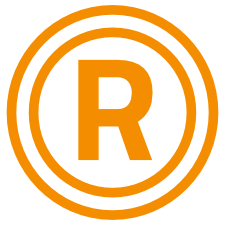
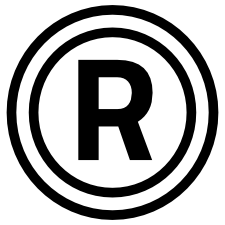
release(other): release v3.6.X – v4 (#18)
* Fix icon color

* Change brand after findings and Stephanie's suggestions

* Add 'logo-r-circle.svg'

* Add new settings in 'logos.js'

* Remove gender language

diff --git a/branding/assets/styles/imports/_branding.scss b/branding/assets/styles/imports/_branding.scss
@@ -55,6 +55,7 @@ $color-ribbon-event-shadow: color.adjust($color-ribbon-event, $lightness: -20%);
 
 $chat-sidemenu-background-over: color.adjust($color-tertiary-light, $lightness: -10%);
 $chat-sidemenu-background-active: $color-tertiary-light;
+$chat-message-color: $color-secondary-dark;
 $chat-message-bg-me: $color-tertiary-light;
 $chat-message-bg-others: $color-secondary-light;
 $chat-message-checkmark-seen: $color-primary;
@@ -64,6 +65,10 @@ $chat-room-background-counter-badge: $color-primary;
 $chat-icon-add: $color-primary-light;
 $chat-icon-send: $color-primary-light;
 $chat-icon-emoji: $color-primary-light;
+
+.vac-avatar {
+  background-color: $color-secondary !important;
+}
 
 body, .ds-button, .ds-chip, .ds-copy-field, .ds-list, .ds-select-search, .ds-tag, .ds-text {
   font-family: $font-family-text !important;
@@ -91,14 +96,14 @@ a:hover > .base-button.--circle.post-add-button-top {
 
 /* ds-menu-item link colors */
 a.ds-menu-item-link {
-  color: $color-primary;
+  color: $color-secondary;
 }
 a:hover.ds-menu-item-link {
-  color: $color-primary-light;
+  color: black;
 }
 .ds-menu-item-link.router-link-exact-active {
-  color: $color-primary;
-  border-left-color: $color-primary;
+  color: $color-secondary;
+  border-left-color: $color-secondary;
 }
 
 .v-popover.open .trigger a {
@@ -127,8 +132,13 @@ a:hover.ds-menu-item-link {
   color: $color-primary-light;
 }
 
-.user-teaser:hover .slug {
-  color: $color-primary-light;
+.user-teaser .info {
+  a .slug {
+    color: $color-secondary;
+  }
+  a:hover .slug {
+    color: black;
+  }
 }
 .profile-avatar.--no-image {
   background-color: $color-secondary;
@@ -147,10 +157,11 @@ a:hover.ds-menu-item-link {
   background-color: $color-secondary-active;
 }
 #footer a {
-  color: $color-secondary-inverse;
+  color: white;
+  font-weight: 500;
 }
 #footer a:hover {
-  color: color.adjust($color-primary-light, $lightness: -10%);
+  color: color.adjust(white, $lightness: -10%);
 }
 
 .avatar-menu .profile-avatar {
@@ -159,10 +170,6 @@ a:hover.ds-menu-item-link {
 
 .profile-avatar .initials {
   color: $color-primary;
-}
-
-.ds-footer {
-  font-weight: 600;
 }
 
 /* chips with primary color */
@@ -183,6 +190,10 @@ div.tab-navigation li.Tabs__tab {
 /* ds-button with primary color */
 .ds-button-primary {
   background-color: $color-primary;
+
+  &:hover {
+    background-color: $color-tertiary;
+  }
 }
 
 /* color of active filter tags in post teaser */
@@ -194,6 +205,17 @@ span.category-tag.filterActive {
 div.ds-input-wrap > input:focus-within.ds-input {
   border-color: $color-primary;
 }
+.ds-input:focus {
+  border-color: $color-primary;
+}
+.ds-form-item.ds-input-has-focus {
+  .ds-select,
+  .ds-select-dropdown {
+    border-color: $color-primary;
+  }
+}
+
+
 // div .ds-form-item .ds-input-has-focus {
 //   border-color: $color-primary;
 // }
@@ -207,6 +229,17 @@ div.ds-input-wrap > input:focus-within.ds-input {
 /* checkbox */
 [type="checkbox"] {
   accent-color: $color-primary-light;
+}
+
+.editor .base-button {
+  color: $color-secondary;
+  border-color: $color-secondary;
+
+  &:hover {
+    color: white;
+    background-color: black;
+    border-color: black;
+  }
 }
 
 body.page-name-login,

diff --git a/branding/locales/html/de/organization.html b/branding/locales/html/de/organization.html
@@ -57,7 +57,7 @@
   </h2>
   <p>
     <b>Reformer.network</b> wird technisch und organisatorisch betrieben von Redcap B.V. im Auftrag der Stichting Rudulin in
-    Amsterdam. Dahinter steht ein wachsendes Team von Entwickler:innen, Moderator:innen, Visionär:innen, Journalist:innen
+    Amsterdam. Dahinter steht ein wachsendes Team von Entwicklern, Moderatoren, Visionären, Journalisten
     und Aktiven aus dem ganzen deutschsprachigen Raum.
   </p>
   <h2>

diff --git a/branding/constants/logos.js b/branding/constants/logos.js
@@ -2,7 +2,9 @@
 // this are the paths in the webapp
 export default {
   LOGO_HEADER_PATH: '/img/custom/logo-horizontal.svg',
+  LOGO_HEADER_MOBILE_PATH: '/img/custom/logo-horizontal.svg',
   LOGO_HEADER_WIDTH: '260px',
+  LOGO_HEADER_MOBILE_WIDTH: '260px',
   LOGO_HEADER_CLICK: {
     // externalLink: {
     //   url: 'https://ocelot.social',
